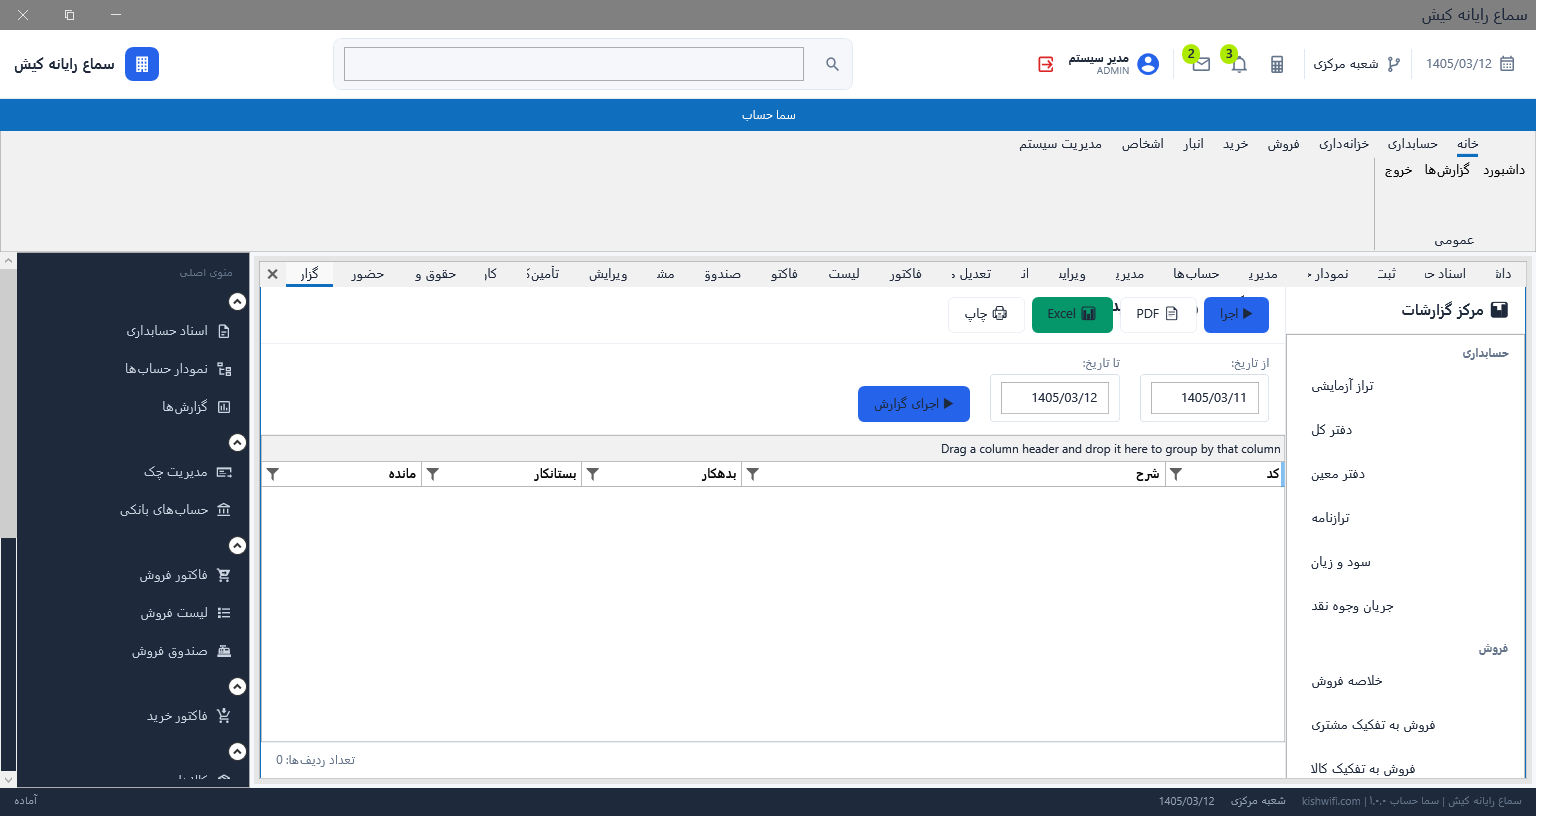
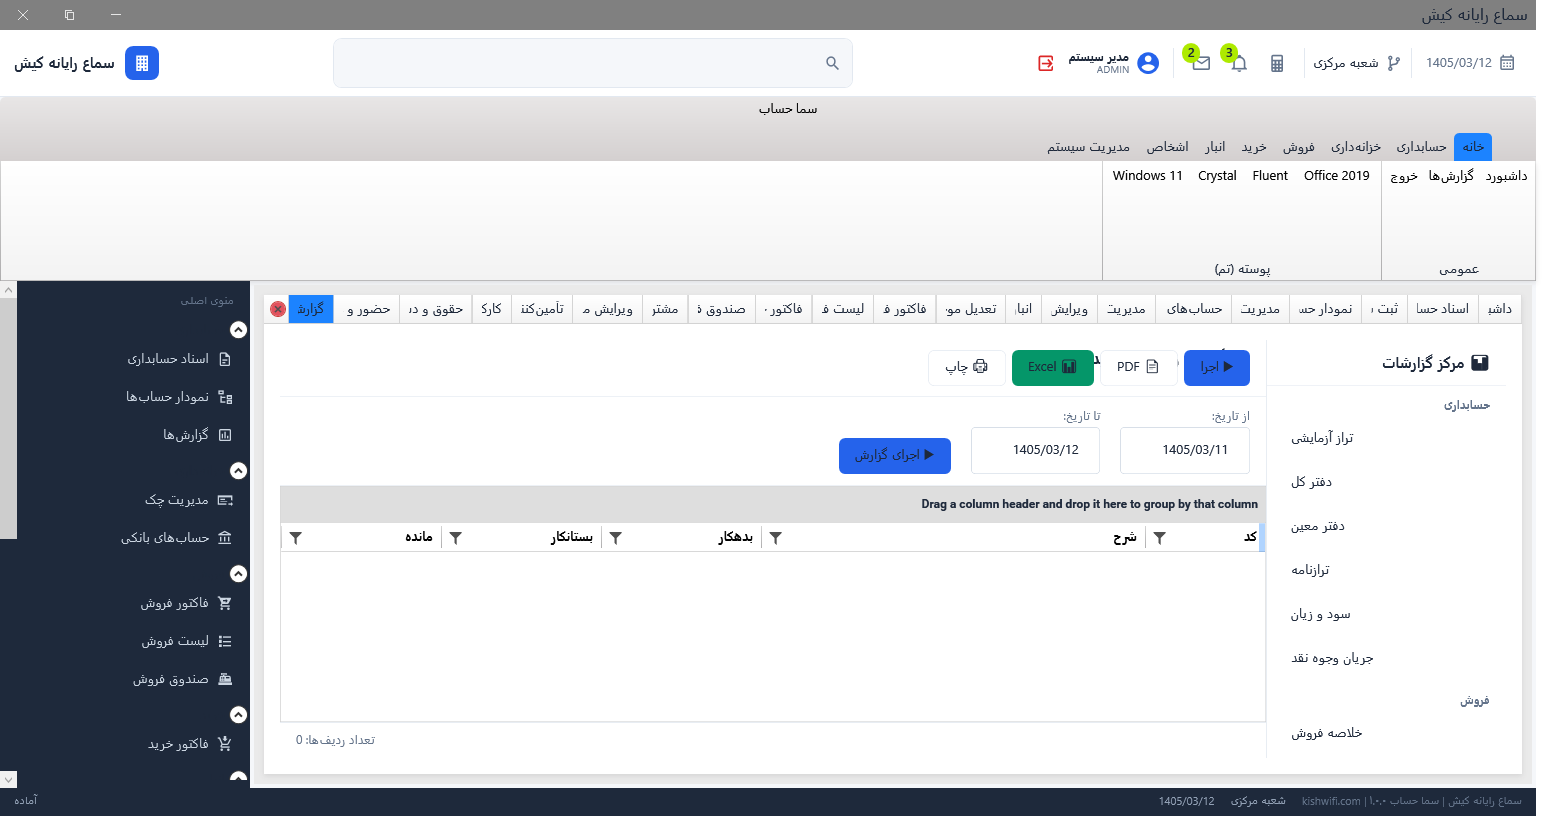
Add runtime-switchable Telerik theme system (Office2019/Fluent/Crystal/Windows11)
- ThemeManager merges the Telerik NoXaml theme dictionaries at runtime (inserted
  before the app's own dictionaries so custom styling keeps priority); can be
  swapped live without restart.
- Telerik theme dicts removed from App.xaml; applied at startup from the saved
  preference (AppSettingsStore.GetTheme).
- AppSettingsStore: persist Theme alongside the connection string (load-modify-save
  so neither overwrites the other).
- MainViewModel.ChangeThemeCommand + a 'پوسته (تم)' ribbon group with
  Office2019 / Fluent / Crystal / Windows11 buttons.
- Added Crystal + Windows11 theme packages.

Verified: builds 0 errors; Crystal theme applied at startup and rendered with no
fatal error; theme buttons visible in the ribbon. Default = Office2019.

diff --git a/src/SamaHesab.WPF/App.xaml b/src/SamaHesab.WPF/App.xaml
@@ -17,16 +17,8 @@
                 <!-- ─── Material Design ↔ MahApps integration ───────────────── -->
                 <ResourceDictionary Source="pack://application:,,,/MaterialDesignThemes.MahApps;component/Themes/MaterialDesignTheme.MahApps.Defaults.xaml"/>
 
-                <!-- ─── Telerik UI for WPF — Office2019 theme (professional ERP look).
-                     System.Windows.xaml intentionally omitted so it does not restyle
-                     the standard workspace TabControl & tree Expanders. ─ -->
-                <ResourceDictionary Source="pack://application:,,,/Telerik.Windows.Themes.Office2019;component/Themes/Telerik.Windows.Controls.xaml"/>
-                <ResourceDictionary Source="pack://application:,,,/Telerik.Windows.Themes.Office2019;component/Themes/Telerik.Windows.Controls.Input.xaml"/>
-                <ResourceDictionary Source="pack://application:,,,/Telerik.Windows.Themes.Office2019;component/Themes/Telerik.Windows.Controls.Navigation.xaml"/>
-                <ResourceDictionary Source="pack://application:,,,/Telerik.Windows.Themes.Office2019;component/Themes/Telerik.Windows.Controls.RibbonView.xaml"/>
-                <ResourceDictionary Source="pack://application:,,,/Telerik.Windows.Themes.Office2019;component/Themes/Telerik.Windows.Controls.Docking.xaml"/>
-                <ResourceDictionary Source="pack://application:,,,/Telerik.Windows.Themes.Office2019;component/Themes/Telerik.Windows.Controls.GridView.xaml"/>
-                <ResourceDictionary Source="pack://application:,,,/Telerik.Windows.Themes.Office2019;component/Themes/Telerik.Windows.Controls.Data.xaml"/>
+                <!-- Telerik theme dictionaries are merged at runtime by ThemeManager
+                     (so the theme can be switched live). -->
 
                 <!-- ─── Sama Hesab custom theme (LAST → wins for existing views) ─ -->
                 <ResourceDictionary Source="Assets/Themes/Base.xaml"/>

diff --git a/src/SamaHesab.WPF/Views/Shell/MainWindow.xaml b/src/SamaHesab.WPF/Views/Shell/MainWindow.xaml
@@ -209,6 +209,16 @@
                     <telerik:RadRibbonButton Text="خروج" Size="Large"
                         Command="{Binding LogoutCommand}"/>
                 </telerik:RadRibbonGroup>
+                <telerik:RadRibbonGroup Header="پوسته (تم)">
+                    <telerik:RadRibbonButton Text="Office 2019" Size="Medium"
+                        Command="{Binding ChangeThemeCommand}" CommandParameter="Office2019"/>
+                    <telerik:RadRibbonButton Text="Fluent" Size="Medium"
+                        Command="{Binding ChangeThemeCommand}" CommandParameter="Fluent"/>
+                    <telerik:RadRibbonButton Text="Crystal" Size="Medium"
+                        Command="{Binding ChangeThemeCommand}" CommandParameter="Crystal"/>
+                    <telerik:RadRibbonButton Text="Windows 11" Size="Medium"
+                        Command="{Binding ChangeThemeCommand}" CommandParameter="Windows11"/>
+                </telerik:RadRibbonGroup>
             </telerik:RadRibbonTab>
 
             <telerik:RadRibbonTab Header="حسابداری">

diff --git a/src/SamaHesab.WPF/Services/AppSettingsStore.cs b/src/SamaHesab.WPF/Services/AppSettingsStore.cs
@@ -21,9 +21,44 @@ public static class AppSettingsStore
         "Server=.\\SQLEXPRESS;Database=SamaHesab;Trusted_Connection=True;" +
         "TrustServerCertificate=True;Encrypt=False;MultipleActiveResultSets=True;Connect Timeout=5;";
 
+    public const string DefaultTheme = "Office2019";
+
     private class Model
     {
         public Dictionary<string, string> ConnectionStrings { get; set; } = new();
+        public string? Theme { get; set; }
+    }
+
+    private static Model Load()
+    {
+        try
+        {
+            if (File.Exists(FilePath))
+                return JsonSerializer.Deserialize<Model>(File.ReadAllText(FilePath)) ?? new Model();
+        }
+        catch { }
+        return new Model();
+    }
+
+    private static void Save(Model m)
+    {
+        Directory.CreateDirectory(AppDataDir);
+        File.WriteAllText(FilePath, JsonSerializer.Serialize(m, new JsonSerializerOptions { WriteIndented = true }));
+    }
+
+    public static string GetTheme()
+    {
+        var t = Load().Theme;
+        return string.IsNullOrWhiteSpace(t) ? DefaultTheme : t!;
+    }
+
+    public static void SaveTheme(string theme)
+    {
+        var m = Load();
+        m.Theme = theme;
+        if (m.ConnectionStrings.Count == 0)
+            m.ConnectionStrings["DefaultConnection"] = DefaultConnectionString;
+        Save(m);
     }
 
     /// <summary>Make sure the directories and a default settings file exist.</summary>
@@ -37,31 +72,16 @@ public static class AppSettingsStore
 
     public static string GetConnectionString()
     {
-        try
-        {
-            if (File.Exists(FilePath))
-            {
-                var model = JsonSerializer.Deserialize<Model>(File.ReadAllText(FilePath));
-                if (model?.ConnectionStrings?.TryGetValue("DefaultConnection", out var cs) == true
-                    && !string.IsNullOrWhiteSpace(cs))
-                    return cs;
-            }
-        }
-        catch { /* fall back to default */ }
+        var m = Load();
+        if (m.ConnectionStrings.TryGetValue("DefaultConnection", out var cs) && !string.IsNullOrWhiteSpace(cs))
+            return cs;
         return DefaultConnectionString;
     }
 
     public static void SaveConnectionString(string connectionString)
     {
-        Directory.CreateDirectory(AppDataDir);
-        var model = new Model
-        {
-            ConnectionStrings = new Dictionary<string, string>
-            {
-                ["DefaultConnection"] = connectionString
-            }
-        };
-        File.WriteAllText(FilePath,
-            JsonSerializer.Serialize(model, new JsonSerializerOptions { WriteIndented = true }));
+        var m = Load();
+        m.ConnectionStrings["DefaultConnection"] = connectionString;
+        Save(m);
     }
 }

diff --git a/src/SamaHesab.WPF/Services/ThemeManager.cs b/src/SamaHesab.WPF/Services/ThemeManager.cs
@@ -1,0 +1,67 @@
+using System.Collections.Generic;
+using System.Linq;
+using System.Windows;
+
+namespace SamaHesab.WPF.Services;
+
+/// <summary>
+/// Runtime-switchable Telerik theme system. The Telerik NoXaml theme dictionaries
+/// are merged here (not in App.xaml) so they can be swapped at runtime. They are
+/// always inserted BEFORE the app's own Sama dictionaries (Base/Styles/…) so the
+/// custom styling keeps priority for standard controls.
+/// </summary>
+public static class ThemeManager
+{
+    public static readonly string[] Available = { "Office2019", "Fluent", "Crystal", "Windows11" };
+
+    public static string Current { get; private set; } = "Office2019";
+
+    private static readonly string[] Files =
+    {
+        "Telerik.Windows.Controls",
+        "Telerik.Windows.Controls.Input",
+        "Telerik.Windows.Controls.Navigation",
+        "Telerik.Windows.Controls.RibbonView",
+        "Telerik.Windows.Controls.Docking",
+        "Telerik.Windows.Controls.GridView",
+        "Telerik.Windows.Controls.Data",
+    };
+
+    private static readonly List<ResourceDictionary> _added = new();
+
+    public static void Apply(string theme)
+    {
+        if (string.IsNullOrWhiteSpace(theme) || !Available.Contains(theme))
+            theme = "Office2019";
+
+        var app = System.Windows.Application.Current;
+        if (app == null) return;
+        var dicts = app.Resources.MergedDictionaries;
+
+        // remove previously-added Telerik theme dictionaries
+        foreach (var d in _added) dicts.Remove(d);
+        _added.Clear();
+
+        // insert before the first Sama custom dictionary (Base.xaml)
+        int idx = 0;
+        for (int i = 0; i < dicts.Count; i++)
+        {
+            var src = dicts[i].Source?.OriginalString ?? "";
+            if (src.Contains("Assets/Themes/Base.xaml")) { idx = i; break; }
+            idx = dicts.Count;
+        }
+
+        foreach (var f in Files)
+        {
+            var d = new ResourceDictionary
+            {
+                Source = new System.Uri(
+                    $"pack://application:,,,/Telerik.Windows.Themes.{theme};component/Themes/{f}.xaml")
+            };
+            dicts.Insert(idx++, d);
+            _added.Add(d);
+        }
+
+        Current = theme;
+    }
+}

diff --git a/src/SamaHesab.WPF/ViewModels/Shell/MainViewModel.cs b/src/SamaHesab.WPF/ViewModels/Shell/MainViewModel.cs
@@ -206,6 +206,14 @@ public partial class MainViewModel : BaseViewModel
         catch { await _dialogService.ShowInfoAsync("ماشینحساب در دسترس نیست."); }
     }
     [RelayCommand] private async Task ChangeBranchAsync() => await _dialogService.ShowInfoAsync("تغییر شعبه (در نسخه بعدی فعال میشود).");
+
+    [RelayCommand]
+    private void ChangeTheme(string theme)
+    {
+        SamaHesab.WPF.Services.ThemeManager.Apply(theme);
+        SamaHesab.WPF.Services.AppSettingsStore.SaveTheme(theme);
+        StatusMessage = $"پوسته به «{theme}» تغییر یافت.";
+    }
 }
 
 public partial class WorkspaceTab : CommunityToolkit.Mvvm.ComponentModel.ObservableObject

diff --git a/src/SamaHesab.WPF/App.xaml.cs b/src/SamaHesab.WPF/App.xaml.cs
@@ -57,6 +57,9 @@ public partial class App : System.Windows.Application
         // Ensure %AppData%\SamaHesab + a default connection string exist (writable).
         Services.AppSettingsStore.EnsureInitialized();
 
+        // Apply the saved Telerik theme (runtime-switchable).
+        Services.ThemeManager.Apply(Services.AppSettingsStore.GetTheme());
+
         // ─── Serilog (writable log folder) ────────────────────────────────────
         Log.Logger = new LoggerConfiguration()
             .MinimumLevel.Information()
